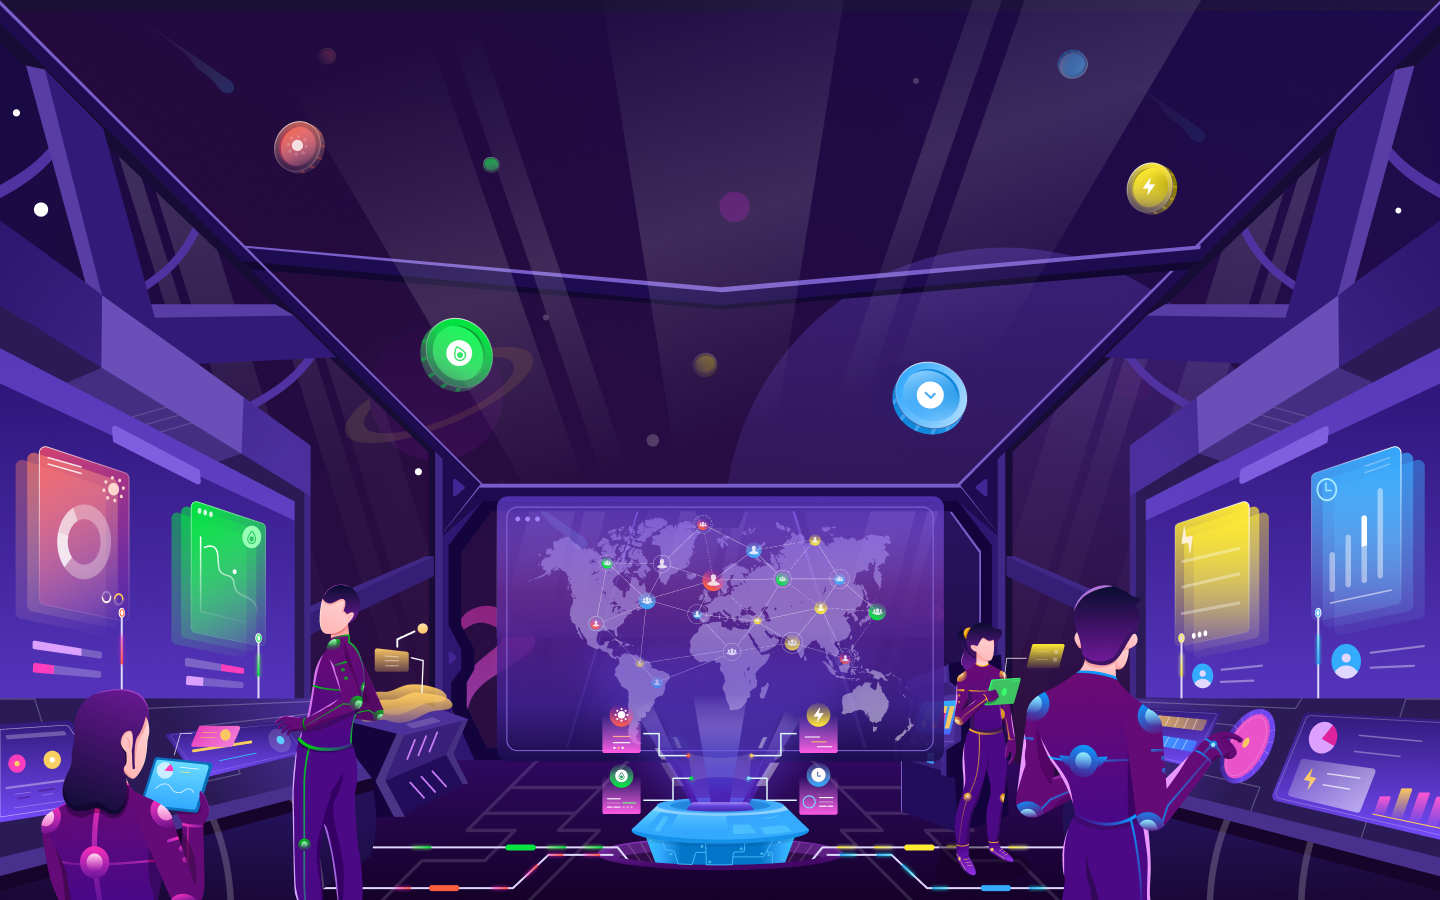
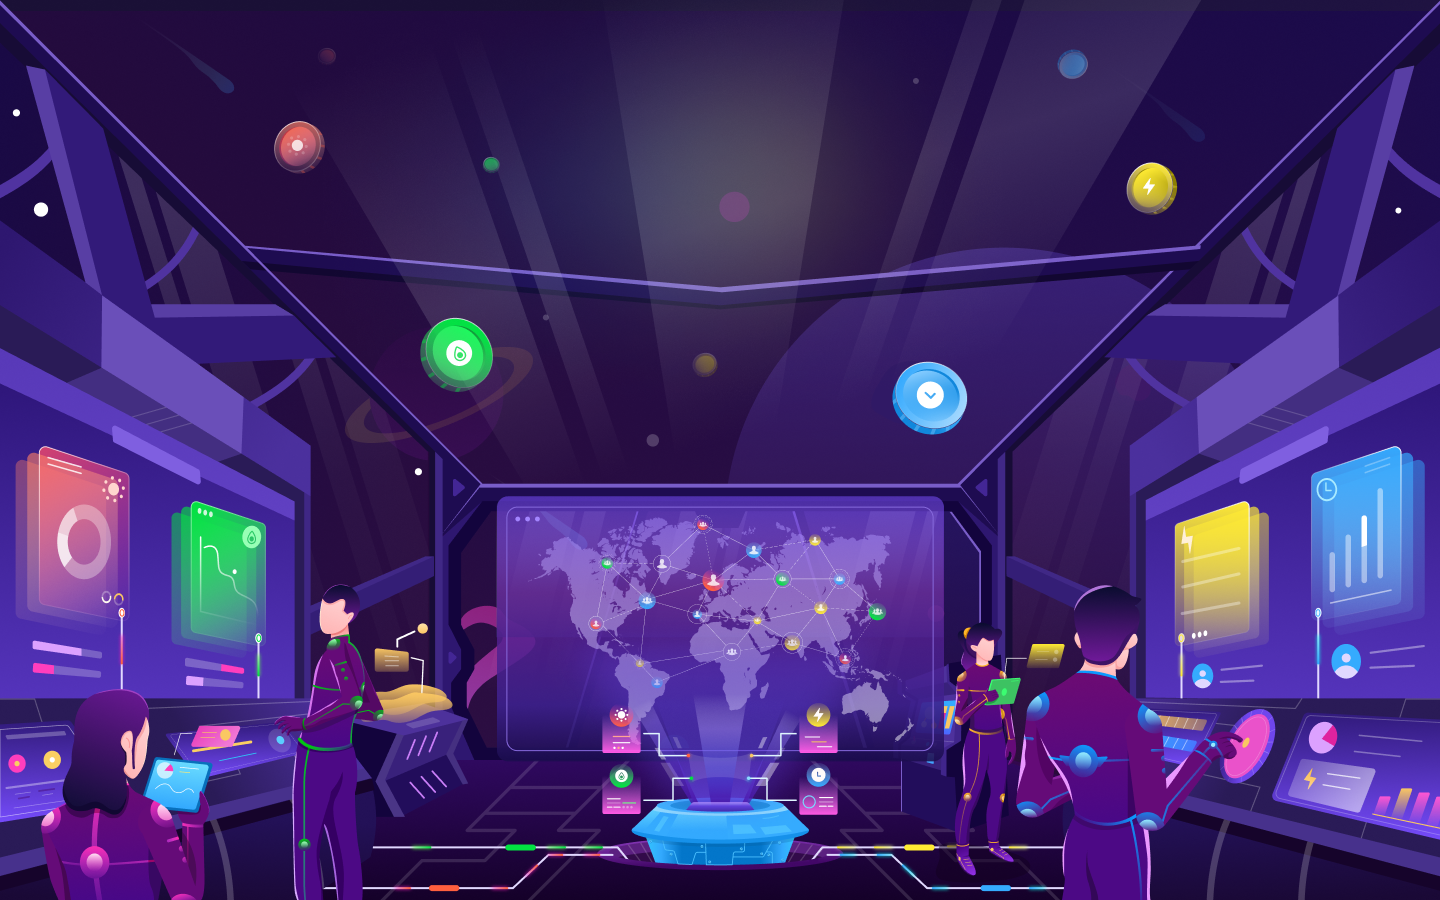
add ornamen

Changed region(s): [[0.4062, 0.0933, 0.5938, 0.3111]]

diff --git a/assets/css/styles.css b/assets/css/styles.css
@@ -210,7 +210,9 @@ section.hero .container{
 
 /* section infographic  */
 section.infographic{
-  background: linear-gradient(141.67deg, #281951 -1.39%, #261752 87.82%);
+  /* background: linear-gradient(141.67deg, #281951 -1.39%, #261752 87.82%); */
+  background-image: url("../images/infographic-bg.png");
+  background-position: center top;
   padding: 165px 0px;
 }
 section.infographic .wrapper{
@@ -219,6 +221,8 @@ section.infographic .wrapper{
 
 /* section smart contract */
 section.smart-contract{
+  background-image: url("../images/smart-contract-bg.png");
+  background-position: center top;
   padding: 165px 0px 167px 0px;
 }
 
@@ -250,7 +254,8 @@ section.smart-contract{
 /* section your plan  */
 section.your-plan{
   padding: 165px 0px;
-  background: linear-gradient(141.67deg, rgba(40, 25, 81, 0.88) -1.39%, rgba(38, 23, 82, 0.88) 87.82%);
+  /* background: linear-gradient(141.67deg, rgba(40, 25, 81, 0.88) -1.39%, rgba(38, 23, 82, 0.88) 87.82%); */
+  background-image: url("../images/price-plan-bg.png");
 }
 section.your-plan .not-full{
   max-width: 427px;
@@ -280,6 +285,8 @@ section.your-plan .not-full{
 /* section focuse  */
 section.focuse-screen{
   padding: 165px 0px;
+  background-image: url("../images/focuse-bgsectio.png");
+  background-position: 0.5% 39%;
 }
 section.focuse-screen .h64-90{
   margin-bottom: 89px;
@@ -305,7 +312,8 @@ section.focuse-screen .col-7{
 /* section footer  */
 section.footer{
   padding: 115px 0px 102px 0px;
-  background: #1B0F3D;
+  /* background: #1B0F3D; */
+  background-image: url("../images/footer-bg.png");
 }
 section.footer .logo-foot{
   max-width: 215px;
